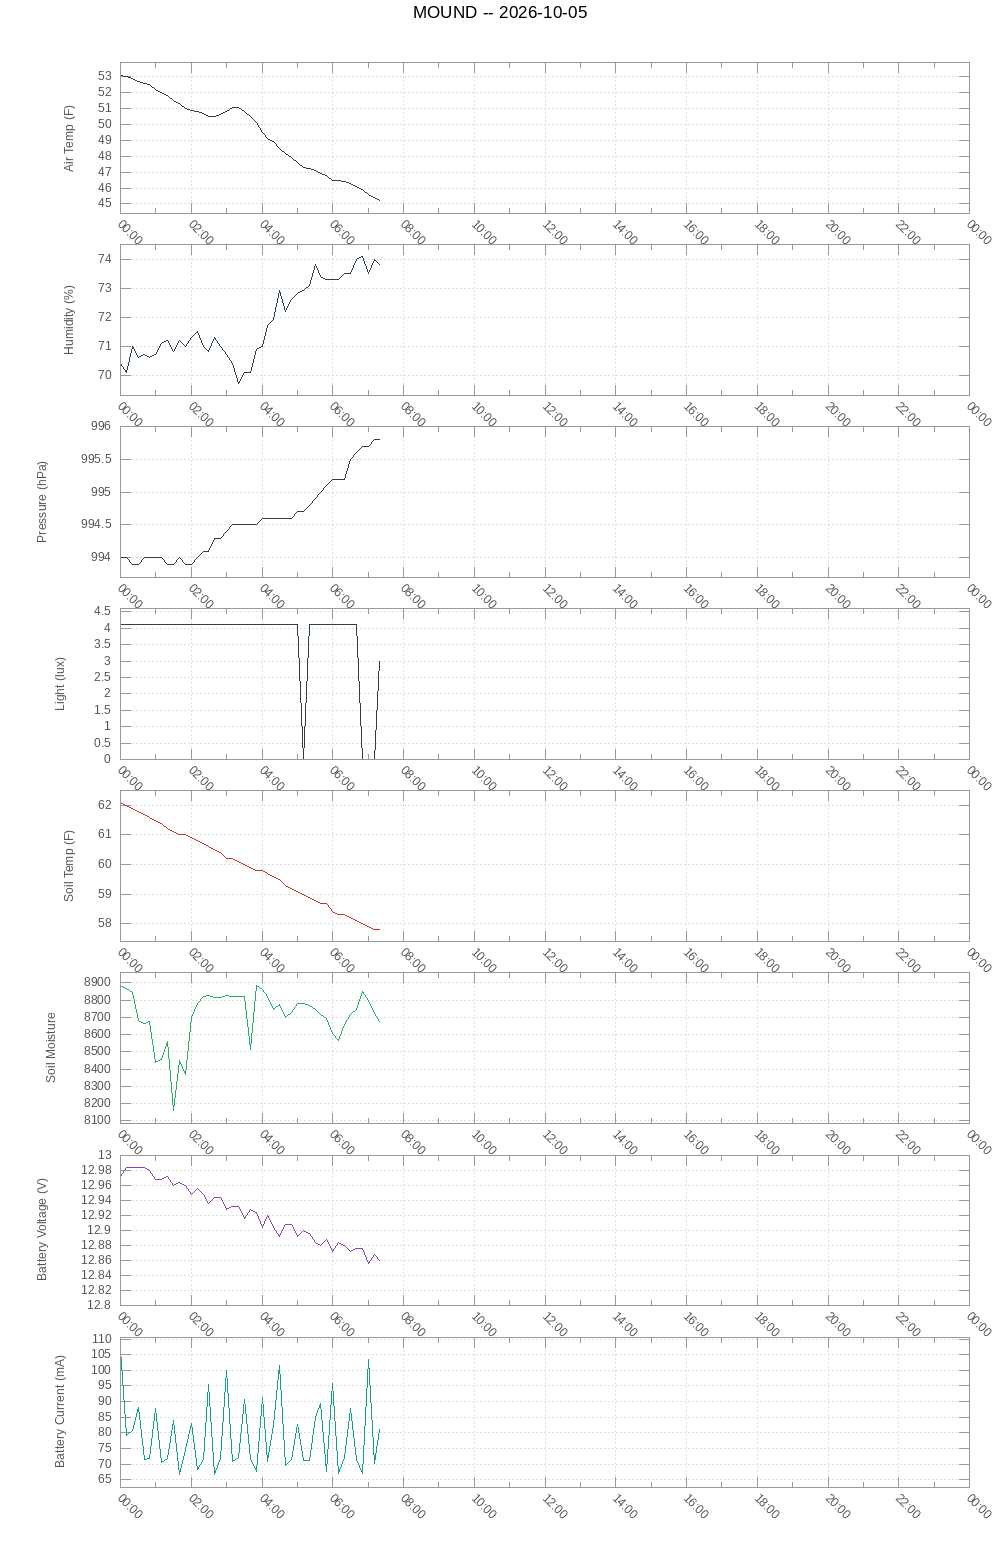
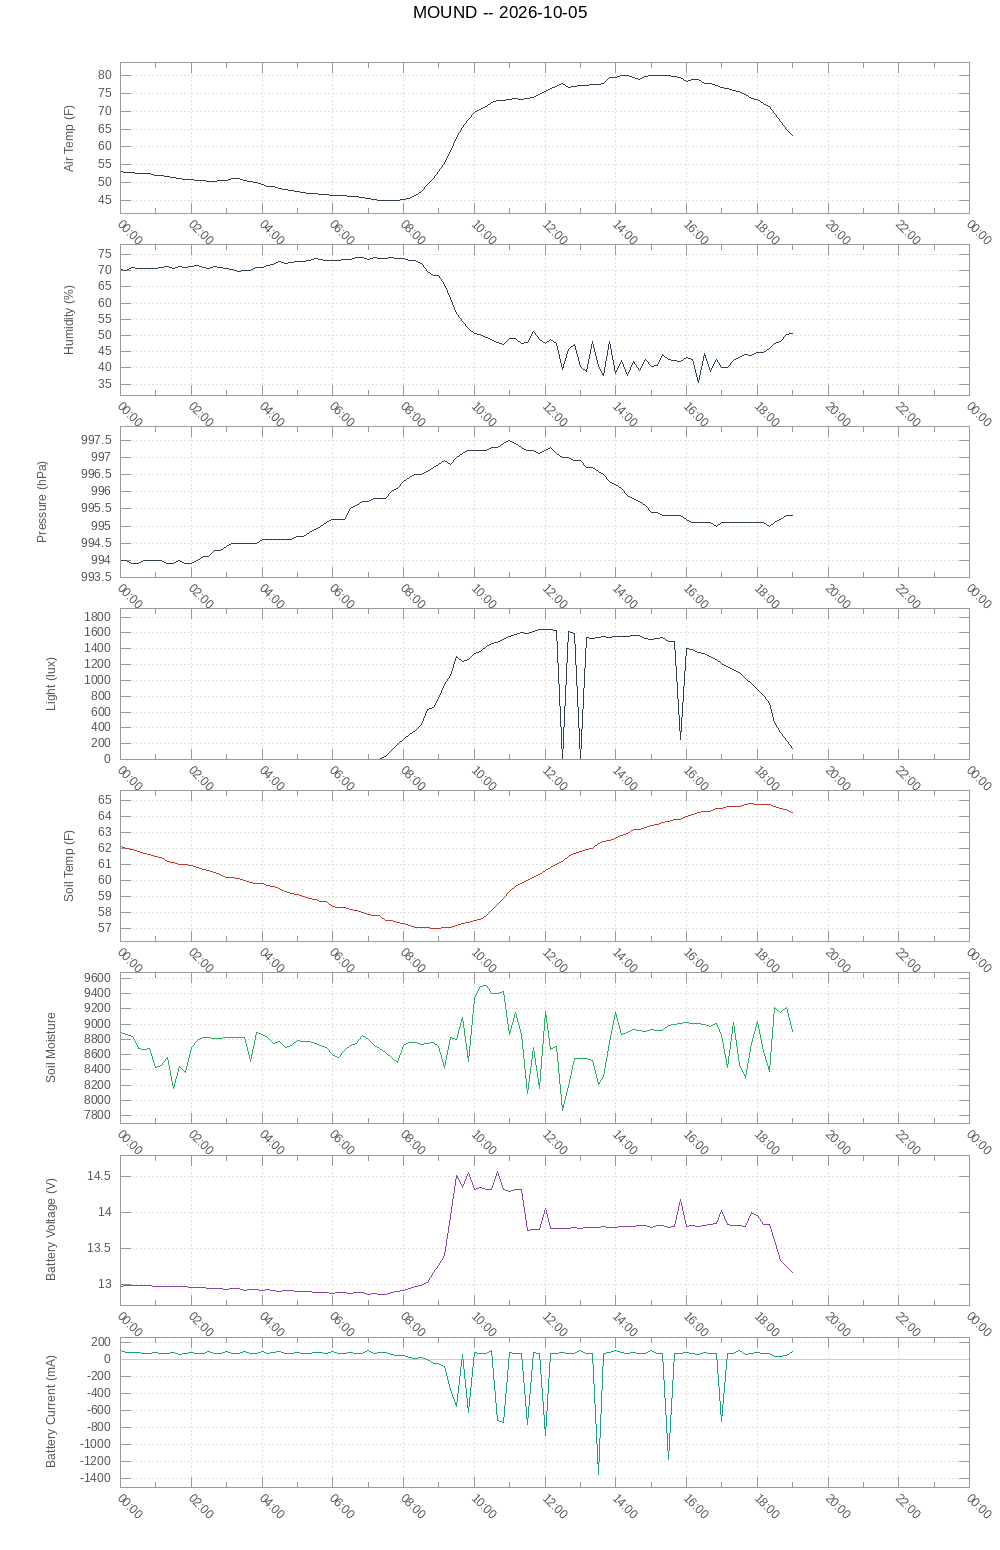
updated run-tracker

diff --git a/run/index.html b/run/index.html
@@ -796,9 +796,9 @@ svg.leaflet-image-layer.leaflet-interactive path {
   #panelList{flex:1 1 auto;overflow-y:auto;display:flex;flex-direction:column;gap:9px;}
   .run-card{
     background:var(--panel);border:1px solid var(--line);border-radius:12px;
-    padding:11px 13px;display:flex;align-items:center;gap:11px;
+    padding:11px 13px;display:flex;flex-direction:column;gap:9px;
   }
-  .run-card .info{flex:1;min-width:0;}
+  .run-card .info{min-width:0;}
   .run-card .rdate{font-size:13px;font-weight:600;margin-bottom:3px;}
   .run-card .rmeta{font-size:12px;color:var(--dim);font-variant-numeric:tabular-nums;}
   .run-card .rgap{font-size:11px;color:var(--warn);margin-top:3px;font-variant-numeric:tabular-nums;}
@@ -807,12 +807,31 @@ svg.leaflet-image-layer.leaflet-interactive path {
     white-space:pre-wrap;overflow-wrap:anywhere;
     border-left:2px solid var(--line);padding-left:8px;
   }
-  .run-card .acts{display:flex;gap:4px;flex:0 0 auto;}
+  /* Full-width row under the info, so the note above gets the whole card. */
+  .run-card .acts{display:flex;gap:5px;flex:0 0 auto;}
   .run-card .acts button{
+    flex:1 1 auto;
     background:var(--panel-2);border:1px solid var(--line);color:var(--dim);
-    border-radius:8px;padding:7px 9px;font-size:11px;
+    border-radius:8px;padding:8px 6px;font-size:11px;font-family:inherit;
   }
-  .run-card .acts .del{color:var(--stop);border-color:#5c2b2b;}
+  .run-card .acts button.on{color:var(--text);border-color:var(--accent);}
+  .run-card .acts .del{color:var(--stop);border-color:#5c2b2b;flex:0 0 auto;padding:8px 11px;}
+
+  /* ---- splits ---- */
+  .splits{
+    border-top:1px solid var(--line);padding-top:9px;
+    display:flex;flex-direction:column;gap:3px;
+    font-variant-numeric:tabular-nums;font-size:11.5px;color:var(--dim);
+  }
+  .split-head{font-size:10.5px;color:var(--dim);opacity:.8;margin-bottom:3px;}
+  .split-row{display:flex;align-items:center;gap:8px;}
+  .split-n{flex:0 0 2.4em;text-align:right;color:var(--dim);}
+  .split-bar{
+    flex:1 1 auto;height:7px;background:var(--panel-2);
+    border-radius:4px;overflow:hidden;
+  }
+  .split-bar span{display:block;height:100%;background:var(--accent);border-radius:4px;}
+  .split-t{flex:0 0 3.6em;text-align:right;color:var(--text);}
   #panelEmpty{color:var(--dim);font-size:13px;text-align:center;padding:26px 0;}
 
   /* ---- run note editor ---- */
@@ -1814,6 +1833,15 @@ svg.leaflet-image-layer.leaflet-interactive path {
         info.appendChild(g);
       }
 
+      if(hadBreaks(run)){
+        const b = document.createElement("div");
+        b.className = "rmeta";
+        b.style.marginTop = "3px";
+        b.textContent = fmtTime(totalMsFor(run)) + " total  ·  " +
+                        fmtTime(pausedMsFor(run)) + " paused";
+        info.appendChild(b);
+      }
+
       const wxText = weatherLine(run.weather);
       if(wxText){
         const w = document.createElement("div");
@@ -1824,10 +1852,18 @@ svg.leaflet-image-layer.leaflet-interactive path {
       }
 
       if(run.note){
-        const n = document.createElement("div");
-        n.className = "rnote";
-        n.textContent = run.note;          // textContent, so a note can't inject markup
-        info.appendChild(n);
+        // A note normally opens with the stats block the editor prefilled — which the
+        // card has just printed immediately above. Strip that header so the card shows
+        // only what was actually written. The stored note keeps it, for Copy and GPX.
+        let body = run.note;
+        const head = statsBlock(run);
+        if(body.startsWith(head)) body = body.slice(head.length).trim();
+        if(body){
+          const n = document.createElement("div");
+          n.className = "rnote";
+          n.textContent = body;          // textContent, so a note can't inject markup
+          info.appendChild(n);
+        }
       }
 
       const acts = document.createElement("div");
@@ -1853,12 +1889,237 @@ svg.leaflet-image-layer.leaflet-interactive path {
         renderRuns();
       });
 
-      acts.appendChild(viewB); acts.appendChild(noteB);
+      const splitsB = document.createElement("button");
+      splitsB.textContent = "Splits";
+      splitsB.addEventListener("click", () => toggleSplits(card, run, splitsB));
+
+      acts.appendChild(viewB); acts.appendChild(splitsB); acts.appendChild(noteB);
       acts.appendChild(gpxB); acts.appendChild(delB);
+      // Actions sit *below* the info now, full width, so a long note gets the whole
+      // card instead of being squeezed into a column beside the buttons.
       card.appendChild(info); card.appendChild(acts);
       panelList.appendChild(card);
     });
     TileCache.renderBadge();
+  }
+
+  /* ============================================================
+     Splits — computed from the saved track, not recorded separately, so they work
+     on every run already in history. Walks the points accumulating distance and
+     interpolates the exact instant each whole mile (or km) was crossed, rather than
+     snapping to the nearest recorded point — at a 9-minute pace a 2-second gap is
+     12 metres, and rounding that off would visibly skew a split.
+
+     Distance never bridges a pause, matching how the run's total is measured.
+     ============================================================ */
+  function splitsFor(run){
+    const segs = run.segments || [];
+    const unitM = unit === "km" ? 1000 : 1609.344;
+    const out = [];
+    let dist = 0, nextMark = unitM, prevMarkT = null;
+
+    // Point timestamps are wall clock, so the gaps between segments are the time spent
+    // paused at water stops. Subtracting them keeps the splits in the same moving-time
+    // world as the run's own duration and average pace — otherwise a two-minute stop
+    // shows up as a two-minute-slower mile, which reads as fading when it isn't.
+    let paused = 0;
+    const clock = t => t - paused;
+
+    for(let s = 0; s < segs.length; s++){
+      const seg = segs[s];
+      if(!seg || seg.length < 2) continue;
+      if(s > 0){
+        const prev = segs[s-1];
+        if(prev && prev.length) paused += seg[0].t - prev[prev.length-1].t;
+      }
+      for(let i = 1; i < seg.length; i++){
+        const a = seg[i-1], b = seg[i];
+        const step = haversine(a, b);
+        if(!(step > 0)) continue;
+
+        // One leg can span a whole mile marker, or more than one.
+        while(dist + step >= nextMark){
+          const frac = (nextMark - dist) / step;
+          const t = clock(a.t + (b.t - a.t) * frac);
+          const from = prevMarkT == null ? clock(runStartT(run)) : prevMarkT;
+          out.push({ n: out.length + 1, ms: t - from, at: t });
+          prevMarkT = t;
+          nextMark += unitM;
+        }
+        dist += step;
+      }
+    }
+
+    // The leftover tail — the part-unit at the end. Worth showing; it's where the
+    // effort usually tells.
+    const tail = dist - (nextMark - unitM);
+    if(tail > unitM * 0.08 && prevMarkT != null){
+      const lastT = lastPointT(run);
+      if(lastT != null && clock(lastT) > prevMarkT){
+        out.push({ n: null, partial: tail / unitM, ms: clock(lastT) - prevMarkT, at: clock(lastT) });
+      }
+    }
+    return out;
+  }
+
+  /** Show or hide a run's split table, built on first open and then kept. */
+  function toggleSplits(card, run, btn){
+    const existing = card.querySelector(".splits");
+    if(existing){ existing.remove(); btn.classList.remove("on"); return; }
+
+    const rows = splitsFor(run);
+    const box = document.createElement("div");
+    box.className = "splits";
+
+    if(!rows.length){
+      box.textContent = "Too short to split.";
+    } else {
+      // Say which clock these are on, since a stopped-for-water mile would otherwise
+      // look like a mile you fell apart on.
+      const head = document.createElement("div");
+      head.className = "split-head";
+      head.textContent = hadBreaks(run)
+        ? "Running time — " + fmtTime(pausedMsFor(run)) + " of breaks excluded"
+        : "Running time";
+      box.appendChild(head);
+
+      // Bars are scaled against the slowest split so the shape of the run reads at
+      // a glance — the back half of a long run tells its own story.
+      const slowest = Math.max(...rows.map(r => r.ms / (r.partial || 1)));
+      rows.forEach(r => {
+        const per = r.ms / (r.partial || 1);     // pace normalised to a full unit
+        const row = document.createElement("div");
+        row.className = "split-row";
+
+        const lbl = document.createElement("span");
+        lbl.className = "split-n";
+        lbl.textContent = r.n != null ? r.n : r.partial.toFixed(2);
+
+        const bar = document.createElement("span");
+        bar.className = "split-bar";
+        const fill = document.createElement("span");
+        fill.style.width = Math.max(4, (per / slowest) * 100) + "%";
+        bar.appendChild(fill);
+
+        const val = document.createElement("span");
+        val.className = "split-t";
+        val.textContent = fmtSplit(r.ms) + (r.partial ? "" : "");
+
+        row.appendChild(lbl); row.appendChild(bar); row.appendChild(val);
+        box.appendChild(row);
+      });
+    }
+    card.appendChild(box);
+    btn.classList.add("on");
+  }
+
+  /* ============================================================
+     One-time elevation repair.
+
+     Runs saved before the altimeter was fixed carry a gain figure computed by summing
+     a random walk once per sensor reading — the marathon came out at 3,920 ft across
+     central Ohio. The per-point elevations in those runs are fine; only the arithmetic
+     over them was wrong, so the honest number can be recovered without re-running.
+
+     This is the same rule the service now applies live: smooth over 30 s of wall clock,
+     test once a second, bank a climb only once it reverses by 2 m. Pauses reset it, so
+     a walk to the car and back is never a hill.
+     ============================================================ */
+  const ELEV_FIX_KEY = "runtracker_elev_fix_v1";
+  const ELEV_TAU_S = 30.0, ELEV_THRESHOLD = 2.0, ELEV_CADENCE_MS = 1000;
+
+  /** Recompute gain/loss from a run's stored point elevations, or null if it has none. */
+  function recomputeElevation(run){
+    let gain = 0, loss = 0, any = false;
+    for(const seg of (run.segments || [])){
+      if(!seg || seg.length < 2) continue;
+      let smooth = NaN, lastT = null, nextEval = null;
+      let peak = NaN, trough = NaN, up = true;
+      for(const p of seg){
+        if(p.ele == null) continue;
+        any = true;
+        if(isNaN(smooth) || lastT == null){ smooth = p.ele; }
+        else {
+          const dt = Math.max(0, p.t - lastT) / 1000;
+          smooth += (1 - Math.exp(-dt / ELEV_TAU_S)) * (p.ele - smooth);
+        }
+        lastT = p.t;
+        if(nextEval != null && p.t < nextEval) continue;
+        nextEval = p.t + ELEV_CADENCE_MS;
+
+        if(isNaN(peak)){ peak = smooth; trough = smooth; continue; }
+        if(up){
+          if(smooth > peak) peak = smooth;
+          else if(peak - smooth > ELEV_THRESHOLD){ gain += peak - trough; trough = smooth; up = false; }
+        } else {
+          if(smooth < trough) trough = smooth;
+          else if(smooth - trough > ELEV_THRESHOLD){ loss += peak - trough; peak = smooth; up = true; }
+        }
+      }
+    }
+    return any ? {gainM: gain, lossM: loss} : null;
+  }
+
+  function repairElevations(){
+    try{ if(localStorage.getItem(ELEV_FIX_KEY) === "1") return; }catch(e){ return; }
+    const runs = loadRuns();
+    let fixed = 0, biggest = null;
+    for(const r of runs){
+      const v = recomputeElevation(r);
+      if(!v) continue;
+      const before = r.elevGainM || 0;
+      if(Math.abs(before - v.gainM) < 1) continue;     // already sane
+      if(biggest == null || before - v.gainM > biggest.drop){
+        biggest = {drop: before - v.gainM, before, after: v.gainM};
+      }
+      r.elevGainM = v.gainM; r.elevLossM = v.lossM;
+      fixed++;
+    }
+    if(!fixed){ try{ localStorage.setItem(ELEV_FIX_KEY,"1"); }catch(e){} return; }
+    if(!saveRuns(runs)) return;                        // storage full — retry next launch
+    try{ localStorage.setItem(ELEV_FIX_KEY,"1"); }catch(e){}
+
+    let msg = "<b>Elevation recalculated.</b> " + fixed +
+              (fixed === 1 ? " run was" : " runs were") +
+              " measured with the old altimeter, which counted sensor noise as climbing.";
+    if(biggest) msg += " The largest correction went from " + fmtEle(biggest.before) + " to " +
+                       fmtEle(biggest.after) + " " + eleUnit() + ".";
+    showNotice(msg, "elevfix");
+  }
+
+  /**
+   * Wall-clock span from the first recorded point to the last — door to door, breaks
+   * included. durationMs is the moving time; the difference between them is how long
+   * you stood still. Both are derived from data every saved run already has, so this
+   * works on runs recorded before the distinction existed.
+   */
+  function totalMsFor(run){
+    const a = runStartT(run), b = lastPointT(run);
+    return (a != null && b != null && b > a) ? (b - a) : (run.durationMs || 0);
+  }
+  function pausedMsFor(run){
+    return Math.max(0, totalMsFor(run) - (run.durationMs || 0));
+  }
+  /** Breaks worth mentioning — below half a minute it's just rounding. */
+  const hadBreaks = run => pausedMsFor(run) >= 30000;
+
+  function runStartT(run){
+    const s = (run.segments || [])[0];
+    return (s && s.length) ? s[0].t : run.startedAt;
+  }
+  function lastPointT(run){
+    const segs = run.segments || [];
+    for(let i = segs.length - 1; i >= 0; i--){
+      if(segs[i] && segs[i].length) return segs[i][segs[i].length - 1].t;
+    }
+    return null;
+  }
+
+  /** mm:ss for a split — hours only when a split somehow needs them. */
+  function fmtSplit(ms){
+    const s = Math.max(0, Math.round(ms/1000));
+    if(s >= 3600) return fmtTime(ms);
+    return Math.floor(s/60) + ":" + (s%60 < 10 ? "0" : "") + (s%60);
   }
 
   /* ============================================================
@@ -2018,6 +2279,10 @@ svg.leaflet-image-layer.leaflet-interactive path {
     let s = d.toLocaleDateString(undefined,{weekday:"long",month:"long",day:"numeric",year:"numeric"}) +
             "\n" + d.toLocaleTimeString(undefined,{hour:"numeric",minute:"2-digit"}) +
             "  ·  " + fmtTime(run.durationMs) +
+            // Jeffrey logs both figures by hand, so spell them out rather than making
+            // him subtract one from the other at the kitchen table.
+            (hadBreaks(run) ? " running  ·  " + fmtTime(totalMsFor(run)) + " total ("
+                              + fmtTime(pausedMsFor(run)) + " paused)" : "") +
             "\n" + fmtDist(run.distanceM) + " " + unit +
             "  ·  " + fmtPace(run.durationMs, run.distanceM) + "/" + unit;
     if(run.elevGainM) s += "  ·  " + fmtEle(run.elevGainM) + " " + eleUnit() + " gain";
@@ -2255,7 +2520,12 @@ svg.leaflet-image-layer.leaflet-interactive path {
   }
 
   applySource();
-  TileCache.open().then(() => { TileCache.renderBadge(); checkRecovered(); renderRuns(); });
+  TileCache.open().then(() => {
+    TileCache.renderBadge();
+    checkRecovered();
+    repairElevations();     // one-time; no-ops on every launch after the first
+    renderRuns();
+  });
   setTimeout(() => map.invalidateSize(), 60);
   window.addEventListener("resize", () => map.invalidateSize());
   window.addEventListener("orientationchange", () => setTimeout(() => map.invalidateSize(), 300));

diff --git a/mound/data_live.html b/mound/data_live.html
@@ -38,18 +38,18 @@
 
       <hr style="border:none; border-top: 1px solid #ccc; margin: 1rem 0;">
 
-      <p><strong>Last reading:</strong> 2026-10-05 07:20:03</p>
+      <p><strong>Last reading:</strong> 2026-10-05 18:50:03</p>
 
       <table style="border:none; border-collapse:collapse; font-family:inherit; font-size:inherit; color:inherit;">
-        <tr><td style="padding: 0.2rem 1.5rem 0.2rem 0;">Air Temperature</td><td>45.2 F</td></tr>
-        <tr><td style="padding: 0.2rem 1.5rem 0.2rem 0;">Humidity</td><td>73.8%</td></tr>
-        <tr><td style="padding: 0.2rem 1.5rem 0.2rem 0;">Pressure</td><td>995.8 hPa</td></tr>
-        <tr><td style="padding: 0.2rem 1.5rem 0.2rem 0;">Light</td><td>3 lux</td></tr>
-        <tr><td style="padding: 0.2rem 1.5rem 0.2rem 0;">Soil Temperature</td><td>57.8 F</td></tr>
+        <tr><td style="padding: 0.2rem 1.5rem 0.2rem 0;">Air Temperature</td><td>64.9 F</td></tr>
+        <tr><td style="padding: 0.2rem 1.5rem 0.2rem 0;">Humidity</td><td>50.2%</td></tr>
+        <tr><td style="padding: 0.2rem 1.5rem 0.2rem 0;">Pressure</td><td>995.3 hPa</td></tr>
+        <tr><td style="padding: 0.2rem 1.5rem 0.2rem 0;">Light</td><td>242 lux</td></tr>
+        <tr><td style="padding: 0.2rem 1.5rem 0.2rem 0;">Soil Temperature</td><td>64.4 F</td></tr>
         <tr><td style="padding: 0.2rem 1.5rem 0.2rem 0;">Soil Moisture</td><td>Saturated</td></tr>
         <tr><td style="padding: 0.2rem 1.5rem 0.2rem 0;">Rain</td><td>No</td></tr>
-        <tr><td style="padding: 0.2rem 1.5rem 0.2rem 0;">Battery Voltage</td><td>12.86 V</td></tr>
-        <tr><td style="padding: 0.2rem 1.5rem 0.2rem 0;">Battery Current</td><td>81.2 mA</td></tr>
+        <tr><td style="padding: 0.2rem 1.5rem 0.2rem 0;">Battery Voltage</td><td>13.25 V</td></tr>
+        <tr><td style="padding: 0.2rem 1.5rem 0.2rem 0;">Battery Current</td><td>49.5 mA</td></tr>
       </table>
 
       <hr style="border:none; border-top: 1px solid #ccc; margin: 1rem 0;">
